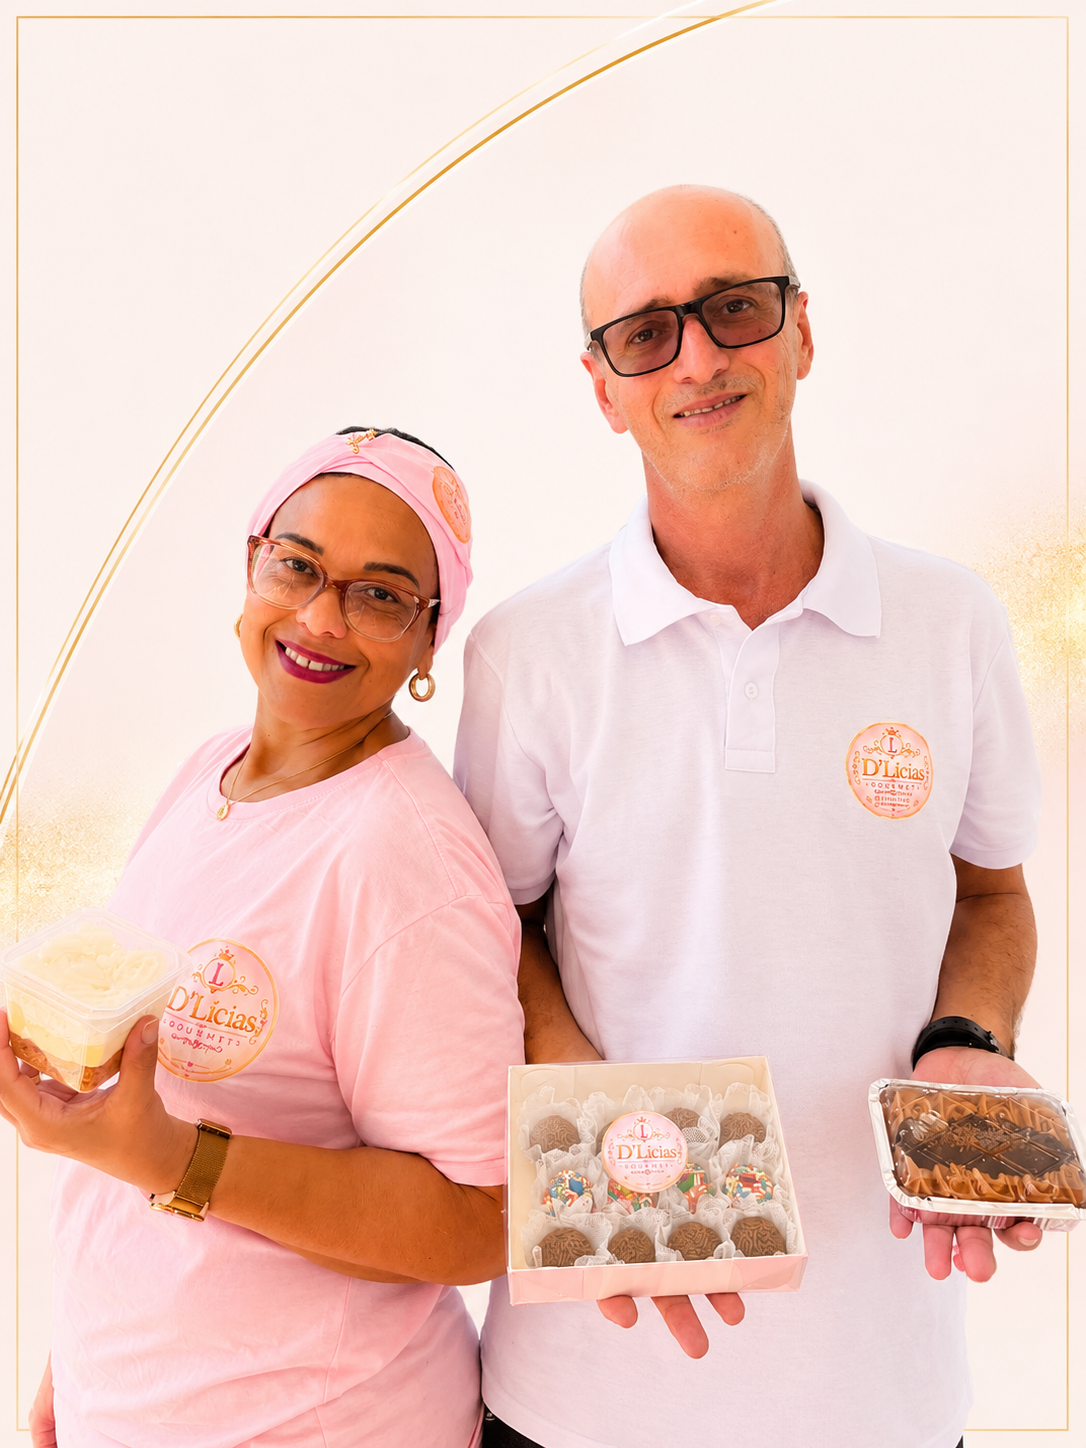
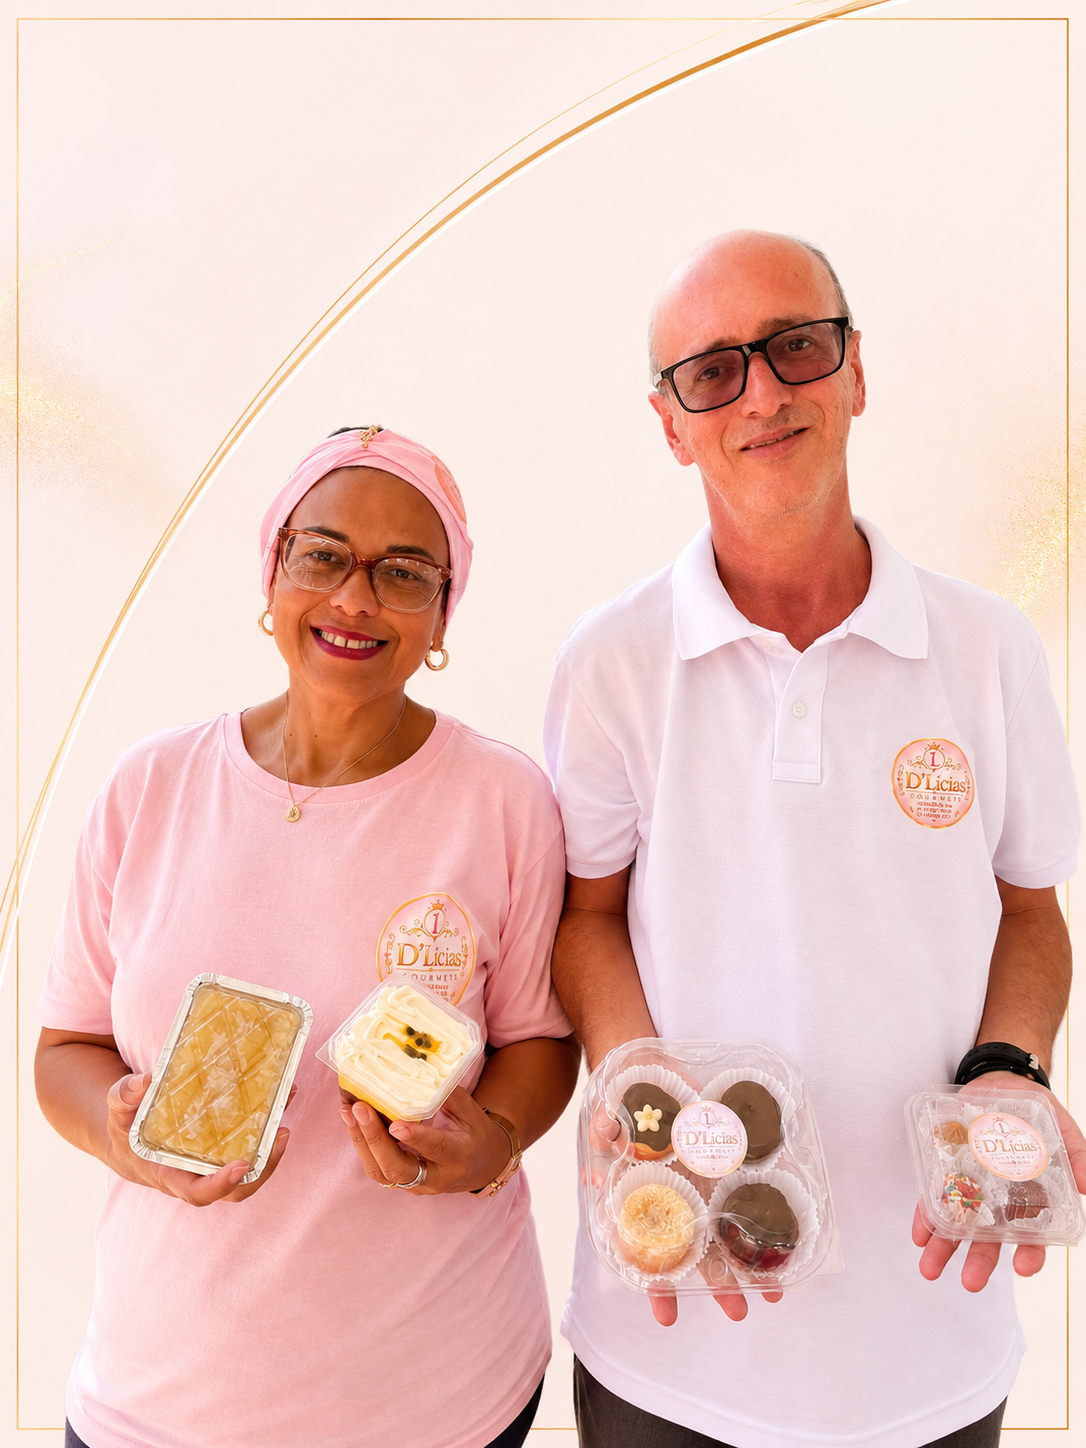
Foto de traje social no slide e textos sem travessao
- Adiciona a foto do casal em traje social como primeira do slide
  da secao Sobre (agora com 4 fotos) e como imagem de compartilhamento
- Aplica a versao do texto "Quem somos" sem travessao, como pedido
  pela cliente
- Remove tambem os travessoes dos demais textos corridos do site,
  trocando por ponto, virgula ou dois-pontos. Ficam apenas os de
  intervalo de horario e o do titulo da pagina

diff --git a/index.html b/index.html
@@ -14,7 +14,7 @@
   <meta property="og:type" content="website">
   <meta property="og:title" content="D'Lícias Gourmet — Casa de Salgados e Confeitaria com Afeto">
   <meta property="og:description" content="Salgados congelados, coxinhas, bentô cake, caseirinhos e doces artesanais em Divinópolis/MG. Encomende pelo WhatsApp.">
-  <meta property="og:image" content="assets/img/sobre-3.png">
+  <meta property="og:image" content="assets/img/sobre-1.png">
   <meta property="og:locale" content="pt_BR">
 
   <link rel="icon" type="image/png" href="assets/img/logo.png">
@@ -109,8 +109,8 @@
 
           <p class="hero__text reveal" data-delay="2">
             Salgados congelados gourmet, bentô cakes, caseirinhos e doces artesanais
-            preparados com ingredientes selecionados e muito capricho — para a sua mesa,
-            sua festa ou o seu negócio.
+            preparados com ingredientes selecionados e muito capricho, para a sua mesa,
+            para a sua festa ou para o seu negócio.
           </p>
 
           <div class="hero__actions reveal" data-delay="3">
@@ -133,7 +133,7 @@
 
         <div class="hero__visual reveal" data-delay="2">
           <div class="hero__frame">
-            <img src="assets/img/sobre-3.png" alt="Casal fundador da D'Licias Gourmet"
+            <img src="assets/img/sobre-4.png" alt="Casal fundador da D'Lícias Gourmet"
                  class="hero__img" loading="eager"
                  onerror="this.closest('.hero__frame').classList.add('is-empty')">
             <div class="hero__placeholder" aria-hidden="true">
@@ -184,15 +184,19 @@
             <div class="slider__viewport">
 
               <figure class="slider__slide is-active">
-                <img src="assets/img/sobre-1.png" alt="Fundadores da D'Licias Gourmet apresentando bolo gelado, torta no pote e brigadeiros" loading="lazy">
+                <img src="assets/img/sobre-1.png" alt="Fundadores da D'Lícias Gourmet em traje social" loading="lazy">
               </figure>
 
               <figure class="slider__slide">
-                <img src="assets/img/sobre-2.png" alt="Fundadores da D'Licias Gourmet com uma caixa de doces personalizados" loading="lazy">
+                <img src="assets/img/sobre-2.png" alt="Fundadores da D'Lícias Gourmet apresentando bolo gelado, torta no pote e brigadeiros" loading="lazy">
               </figure>
 
               <figure class="slider__slide">
-                <img src="assets/img/sobre-3.png" alt="Fundadores da D'Licias Gourmet de uniforme" loading="lazy">
+                <img src="assets/img/sobre-3.png" alt="Fundadores da D'Lícias Gourmet com uma caixa de doces personalizados" loading="lazy">
+              </figure>
+
+              <figure class="slider__slide">
+                <img src="assets/img/sobre-4.png" alt="Fundadores da D'Lícias Gourmet de uniforme" loading="lazy">
               </figure>
 
             </div>
@@ -208,6 +212,7 @@
               <button class="slider__dot is-active" role="tab" aria-selected="true"  aria-label="Foto 1"></button>
               <button class="slider__dot"           role="tab" aria-selected="false" aria-label="Foto 2"></button>
               <button class="slider__dot"           role="tab" aria-selected="false" aria-label="Foto 3"></button>
+              <button class="slider__dot"           role="tab" aria-selected="false" aria-label="Foto 4"></button>
             </div>
           </div>
 
@@ -223,9 +228,9 @@
           </h2>
 
           <p class="section__lead reveal" data-delay="2">
-            A D'Lícias Gourmet nasceu muito antes de existir como empresa — nasceu
-            como um sonho no coração de quem acredita no poder do recomeço, da fé
-            e do trabalho feito com amor.
+            A D'Lícias Gourmet nasceu muito antes de existir como empresa,
+            nasceu como um sonho no coração de quem acredita no poder do
+            recomeço, da fé e do trabalho feito com amor.
           </p>
 
           <p class="sobre__texto reveal" data-delay="3">
@@ -239,7 +244,7 @@
             Aqui, acreditamos que cada encomenda tem um significado especial. Seja
             para celebrar, presentear ou adoçar o dia, cada produto é preparado com
             atenção aos detalhes, qualidade e muito afeto. Porque para nós, não se
-            trata apenas de vender — trata-se de fazer parte de momentos importantes
+            trata apenas de vender, trata-se de fazer parte de momentos importantes
             na vida das pessoas.
           </p>
 
@@ -294,7 +299,7 @@
 
             <blockquote class="socia__quote">
               Empreender, para mim, é cuidar de pessoas. Gosto de ver o cliente
-              feliz com o que recebe — é isso que me faz querer melhorar todo dia.
+              feliz com o que recebe. É isso que me faz querer melhorar todo dia.
             </blockquote>
 
             <p class="socia__text">
@@ -306,7 +311,7 @@
             </p>
 
             <p class="socia__text">
-              Ela acredita que um doce bem feito começa muito antes da cozinha —
+              Ela acredita que um doce bem feito começa muito antes da cozinha:
               começa em ouvir o cliente com atenção e entender o que aquele pedido
               representa. Seja uma festa de 15 anos, um chá revelação ou só a
               vontade de adoçar o fim de semana.
@@ -334,8 +339,8 @@
             Uma vitrine de <span class="text-gold">delícias</span>
           </h2>
           <p class="section__lead section__lead--center reveal" data-delay="2">
-            Escolha o seu favorito e mande uma mensagem no WhatsApp —
-            respondemos com sabores, tamanhos e valores na hora.
+            Escolha o seu favorito e mande uma mensagem no WhatsApp.
+            Respondemos com sabores, tamanhos e valores na hora.
           </p>
         </header>
 
@@ -503,8 +508,8 @@
             <summary>Vocês entregam?</summary>
             <div class="faq__answer">
               <p>Trabalhamos principalmente com retirada. A entrega pode ser combinada
-              conforme a região, o tamanho do pedido e a urgência — é só perguntar pelo WhatsApp que
-              avaliamos juntos.</p>
+              conforme a região, o tamanho do pedido e a urgência. É só perguntar pelo
+              WhatsApp que avaliamos juntos.</p>
             </div>
           </details>
 
@@ -546,7 +551,7 @@
             <summary>Como devo conservar os salgados congelados?</summary>
             <div class="faq__answer">
               <p>Mantenha sempre no freezer até o momento do preparo. Frite ou asse
-              ainda congelados, sem descongelar antes — assim o resultado fica
+              ainda congelados, sem descongelar antes. Assim o resultado fica
               crocante e o recheio no ponto.</p>
             </div>
           </details>
@@ -573,7 +578,7 @@
             Estamos <span class="text-gold">pertinho</span> de você
           </h2>
           <p class="section__lead section__lead--center reveal" data-delay="2">
-            Atendimento rápido pelo WhatsApp — tire dúvidas, peça orçamento ou faça sua encomenda.
+            Atendimento rápido pelo WhatsApp: tire dúvidas, peça orçamento ou faça sua encomenda.
           </p>
         </header>
 
@@ -614,7 +619,7 @@
               <div>
                 <strong>Onde estamos</strong>
                 <span class="contact-card__value">Rua Amin José Barreto, 458</span>
-                <small>Belvedere · Divinópolis/MG — toque para abrir no mapa</small>
+                <small>Belvedere · Divinópolis/MG · toque para abrir no mapa</small>
               </div>
             </a>
 
@@ -628,7 +633,7 @@
                 <li><span>Sábado</span><span>08h — 14h</span></li>
                 <li><span>Domingo e feriados</span><span>Fechado</span></li>
               </ul>
-              <p class="hours__note">Encomendas pelo WhatsApp podem ser enviadas a qualquer hora — respondemos no horário comercial.</p>
+              <p class="hours__note">Encomendas pelo WhatsApp podem ser enviadas a qualquer hora. Respondemos no horário comercial.</p>
             </div>
           </div>
 

diff --git a/js/data.js b/js/data.js
@@ -168,7 +168,7 @@ const PRODUTOS = [
     imgs: [
       'assets/img/produtos/bolo-gelado-1.jpg'
     ],
-    desc: 'Bolo gelado, molhadinho e servido na marmita — prático para levar e ótimo para revender.'
+    desc: 'Bolo gelado, molhadinho e servido na marmita. Prático para levar e ótimo para revender.'
   },
   {
     nome: 'Torta Gelada no Pote',

diff --git a/README.md b/README.md
@@ -27,9 +27,10 @@ dlicias-gourmet/
 │   └── main.js             → comportamento (menu, filtros, slider, links)
 └── assets/
     ├── img/
-    │   ├── sobre-1.png     → 1ª foto do slide (com os produtos)
-    │   ├── sobre-2.png     → 2ª foto do slide (caixa de doces)
-    │   ├── sobre-3.png     → 3ª foto do slide E foto do topo do site
+    │   ├── sobre-1.png     → 1ª do slide (traje social) e compartilhamento
+    │   ├── sobre-2.png     → 2ª do slide (com os produtos)
+    │   ├── sobre-3.png     → 3ª do slide (caixa de doces)
+    │   ├── sobre-4.png     → 4ª do slide (uniforme) e foto do topo do site
     │   ├── marina-1.png    → foto principal da seção da sócia
     │   ├── marina-2.png    → foto redonda menor da seção da sócia
     │   ├── personalizado.png → foto da seção "Datas especiais"
